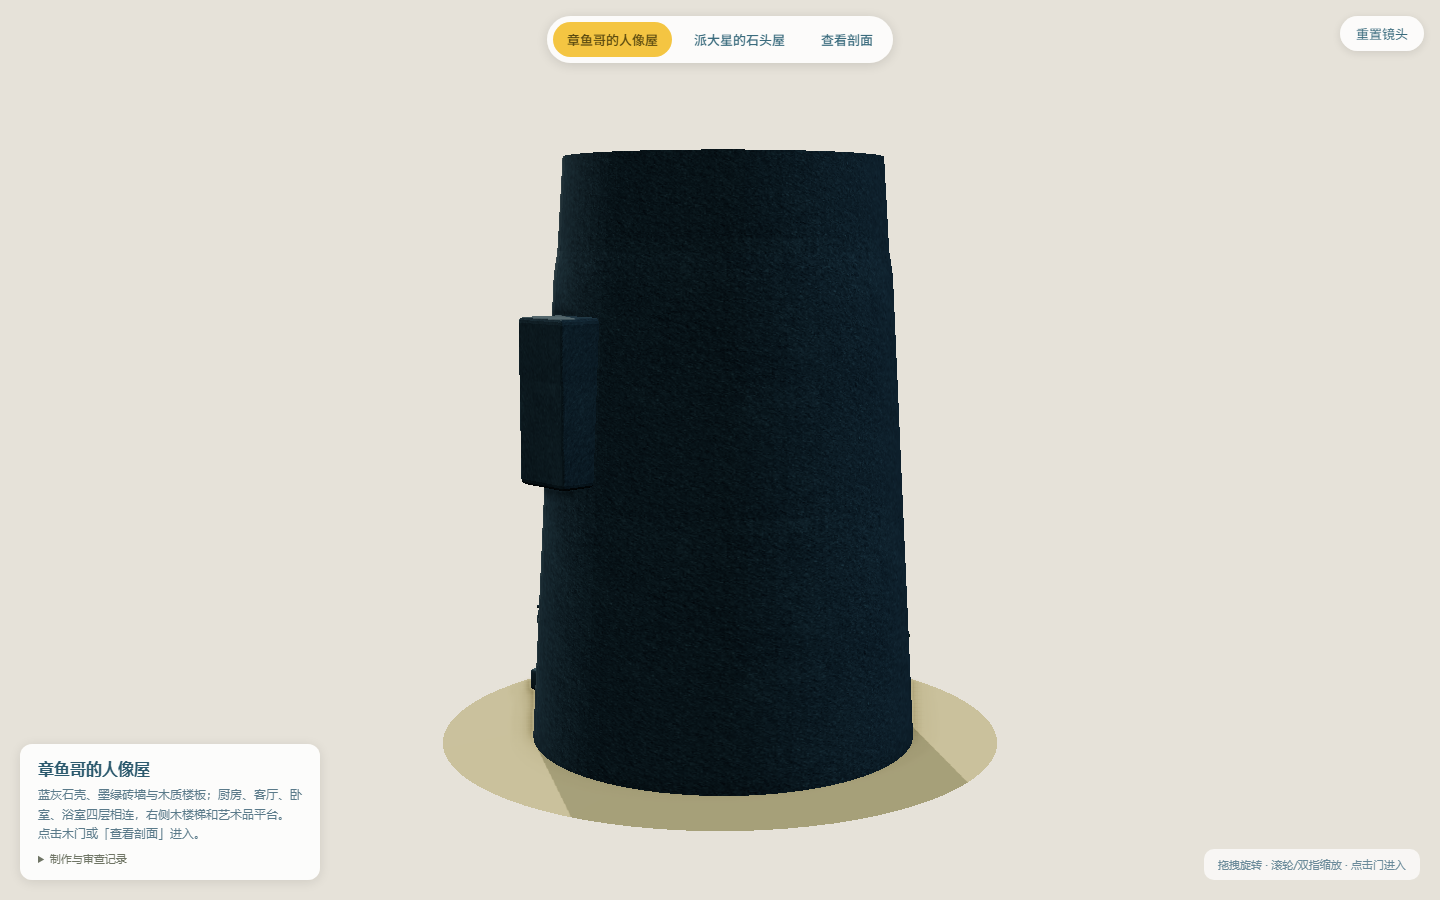
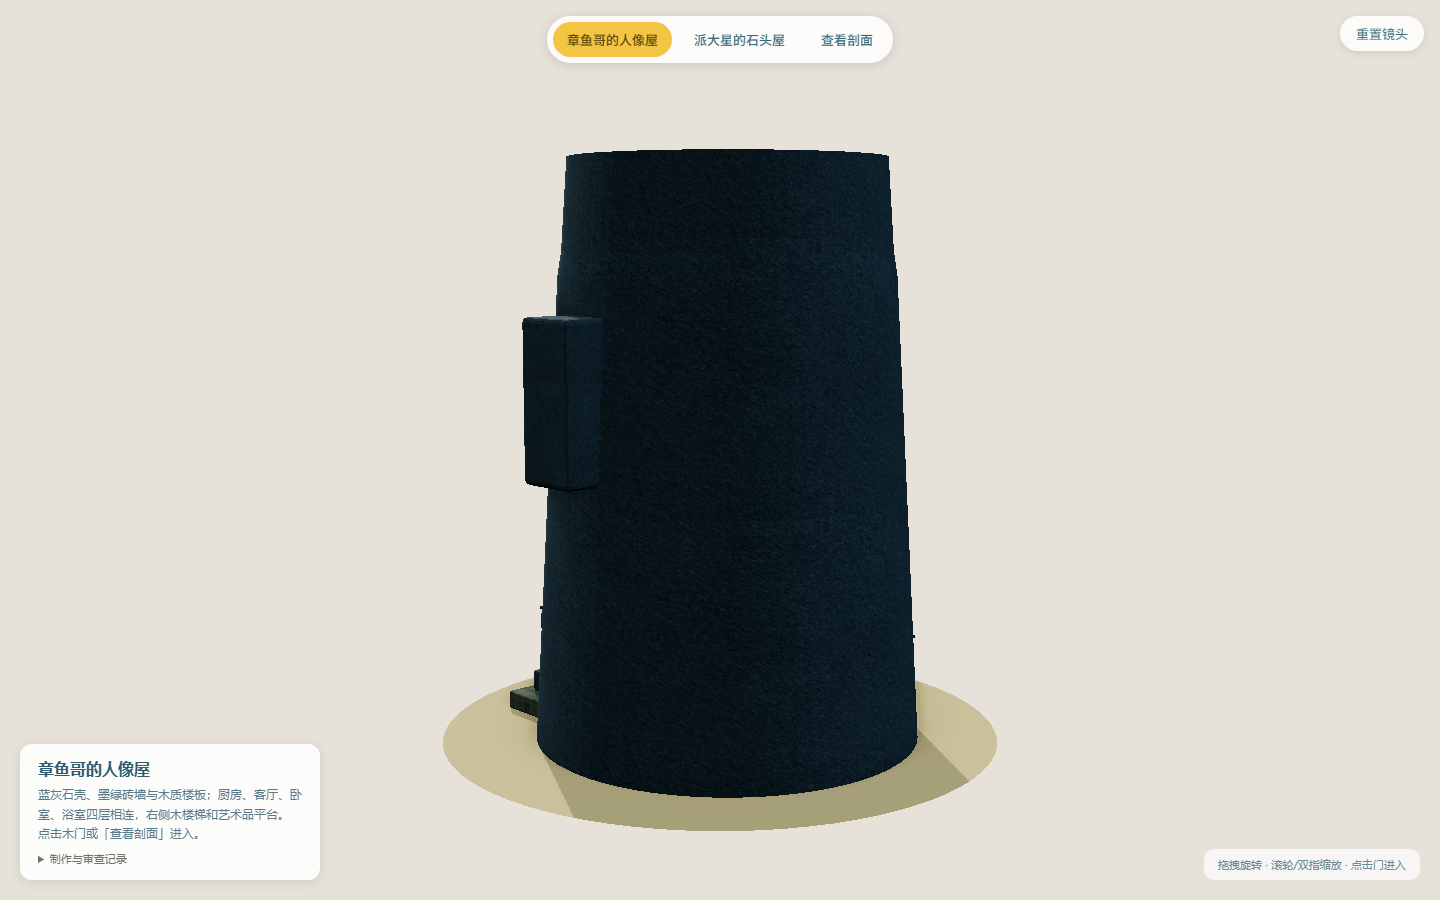
docs: 登记 final2 公网与硬件渲染验收

diff --git a/docs/neighborhood-review/verification.md b/docs/neighborhood-review/verification.md
@@ -12,11 +12,12 @@
 | 本地交互预检 | CDP原生输入51/51：1440×900、390×844，真实门网格点击、四房间/返回/Esc、双击返回、拖拽/滚轮/双指缩放及重置、直达派大星后切回、窗口变化；输入全trusted，健康运行零脚本错误/非取消资源失败；[results.json](acceptance/v7/local/results.json) |
 | 故障恢复 | 5/5：外观加载阻断后重试、室内失败停止loading、原生重试恢复、双击进入只发一次成功请求；[retry/results.json](acceptance/v7/retry/results.json)。此用例故意阻断2次网络，不混计为健康冒烟错误 |
 | 构建 | `npm run build` / `npm run check` / `git diff --check` 通过；正式首页源码和派大星模型未改 |
-| 公网 | v7-final原生CDP51/51和9/9资源SHA已通过；v7-final2新增石基、洗手盆支撑、蓝色客厅地面及标签锚点，最终公网证据待刷新 |
+| 公网 final2 | 代码提交 `04699fd`：9/9关键资源（含4个GLB）与Git提交SHA-256一致，原生CDP交互51/51、手机近景像素4/4；零脚本错误和非取消资源失败。见 [resources.json](acceptance/v7/public/resources.json)、[results.json](acceptance/v7/public/results.json)、[room-pixels.json](acceptance/v7/public/room-pixels.json) |
+| 硬件GPU | ANGLE / NVIDIA RTX3050 / Direct3D11，1440×900外观60.15 / 剖切60.18fps；390×844桌面GPU仿真60.14 / 60.04fps。各采样5秒，桌面≥50目标通过；[hardware-gpu/results.json](acceptance/v7/hardware-gpu/results.json) |
 
 公网目检补修：手机近景原先仍露出其他楼层的墙和楼梯；现近景按当前层高度裁剪，返回恢复完整四层，近景隐藏地面背景。手机四房间上方绿墙像素回归从3项失败→4/4通过，修前截图保留在 `acceptance/v7/before-room-section/`。全局剖切仍使用实际拆分的GLB壳体，层高裁剪仅用于房间近景。舷窗补件改为父模型局部坐标，避免归一化位移重复应用。
 
-本轮保持 `review`，没有用户视觉批准，也未接正式首页。插画笔触、石雕细节和透视与参考仍有差异；无头Chrome/SwiftShader及触屏仿真不能证明真实GPU帧率或物理手机操作，实机目标桌面≥50 / 手机≥30fps待复核。
+本轮保持 `review`，没有用户视觉批准，也未接正式首页。插画笔触、石雕细节和透视与参考仍有差异。交互用无头Chrome/SwiftShader验证；另补RTX3050硬件帧率采样。真实手机≥30fps和物理触屏仍待实机复核，桌面GPU上的手机视口仿真不替代手机性能。
 
 ---
 

diff --git a/docs/STATUS.md b/docs/STATUS.md
@@ -65,8 +65,8 @@
 - 模型：整屋100,814三角 / 室内95,346；各23图像/23纹理，最大512；桌面/移动同哈希。完整哈希、来源、失败候选见 `docs/neighborhood-review/asset-index.json` 和 `acceptance/v7/production/provenance.json`。
 - 验证：4件GLB门禁、19张输入检查、构建/check/diff检查通过；本地CDP交互预检51/51，健康运行零脚本/资源错误；独立故障恢复5/5，保留故意阻断网络记录。参考并排与双视口证据见 `docs/neighborhood-review/acceptance/v7/`。
 - 追加目检修复：手机近景按当前楼层裁剪墙/楼梯，返回恢复四层；舷窗补件改父模型局部坐标。四房间手机像素回归4/4通过，修前失败截图保留。缓存升级 `20261013-squidward-v7-final2`。
-- 追加支撑修复：洗手盆移出梯洞（边缘余量7.57cm），补入口石基，冰箱收进层高；客厅改蓝色地面、楼板侧缘改石材，标签锚点移到各层前侧。GLB及本地51/51、手机像素4/4通过。待v7-final2公网复验后刷新证据。
-- 边界：原工作区并行未提交改动保留；正式首页与派大星模型未动。状态review，未批准；插画笔触/雕塑细节/透视仍有差异，真实设备性能和物理触屏待用户复核。
+- 追加支撑修复：洗手盆移出梯洞（边缘余量7.57cm），补入口石基，冰箱收进层高；客厅改蓝色地面、楼板侧缘改石材，标签锚点移到各层前侧。GLB及本地51/51、手机像素4/4通过；代码04699fd已推main，final2公网51/51、像素4/4、9/9资源SHA通过。RTX3050硬件采样桌面约60fps，手机视口在桌面GPU仿真约60fps；手机实机仍未测。
+- 边界：原工作区并行未提交改动保留；正式首页与派大星模型未动。状态review，未批准；插画笔触/雕塑细节/透视仍有差异，手机实机性能和物理触屏待用户复核。
 
 ## 章鱼哥人像屋 v6 · 独立验收 9 项修复（2026-10-12，review 待审，已推独立分支）
 

diff --git a/docs/neighborhood-review/README.md b/docs/neighborhood-review/README.md
@@ -17,7 +17,7 @@
 
 完整哈希、每张贴图用途见[资产登记](asset-index.json)。建筑精修为 Blender，新增家具来自自有 L20 Forge3D/Hunyuan3D，纹理与肖像来自 Z-Image；采用项、失败候选和精修范围见[装配记录](ASSEMBLY_NOTES.md)及[生产来源](acceptance/v7/production/provenance.json)。派大星模型与正式首页资源未改。
 
-运行验收和截图见[verification.md](verification.md)。插画笔触、石雕细节及透视与参考仍有差异；真实 GPU 帧率、物理触屏尚未验证。技术验收与用户视觉批准分开记录。
+运行验收和截图见[verification.md](verification.md)。插画笔触、石雕细节及透视与参考仍有差异；桌面RTX3050硬件渲染约60fps；真实手机帧率、物理触屏尚未验证。技术验收与用户视觉批准分开记录。
 
 ## v6 历史记录（以下面数、贴图及脚本描述非当前版本）
 

diff --git a/README.md b/README.md
@@ -20,7 +20,7 @@ python -m http.server 8769 --bind 127.0.0.1
 
 ## 邻里房屋预览
 
-章鱼哥屋 v7 的[独立预览](https://gsyiswatchingu.github.io/docs/neighborhood-review/?v=20261013-squidward-v7-final2)已按参考精修四层剖面、材质与家具，状态为 `review`，尚未接入首页。入口、资产来源及验收证据见[预览说明](docs/neighborhood-review/README.md)。真实设备性能与用户视觉批准待完成。
+章鱼哥屋 v7 的[独立预览](https://gsyiswatchingu.github.io/docs/neighborhood-review/?v=20261013-squidward-v7-final2)已按参考精修四层剖面、材质与家具，状态为 `review`，尚未接入首页。入口、资产来源及验收证据见[预览说明](docs/neighborhood-review/README.md)。手机实机性能与用户视觉批准待完成。
 
 ## 旧互动小屋（保留源码）
 
